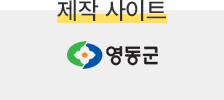
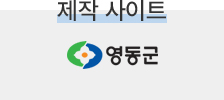
Edit - text, shadow

Changed region(s): [[0.25, 0.12, 0.75, 0.24]]

diff --git a/portfolio.html b/portfolio.html
@@ -85,7 +85,7 @@
                     <li><a href="list/mark-3.html">
                             <span></span>
                             <h4><img src="images/m.png" alt="meta-tony">웹 디자인 이력서</h4>
-                            <p>심플하고 명확한 포트폴리오<br><br></p>
+                            <p>간결하고 명확한 포트폴리오<br><br></p>
                         </a>
                     </li>
                     <li><a href="list/mark-4.html">
@@ -100,7 +100,7 @@
                             <p>심플하고 명확한 포트폴리오<br><br>CSS슬라이드 사용</p>
                         </a>
                     </li>
-                    <li><a href="list/mark-6.html">
+                    <li style="display: none;"><a href="list/mark-6.html">
                             <span></span>
                             <h4><img src="images/fb2.png" alt="meta-tony"></h4>
                             <p>기존 사이트 리뉴얼(미완성)<br><br></p>

diff --git a/css/style.css b/css/style.css
@@ -408,7 +408,7 @@ section h2 {
     z-index: 10;
 }
 .copy h4 {
-    margin-top: 80px;
+    margin-top: 60px;
     font-size: 36px;
     font-weight: 600;
 }
@@ -459,7 +459,7 @@ section h2 {
 #kb .wrap > div {
     background: url(../images/kb-text.jpg)no-repeat center;
     height: 117px;
-    margin-top: 120px;
+    margin-top: 80px;
 }
 
 
@@ -473,7 +473,7 @@ section h2 {
 #yd .wrap > div {
     background: url(../images/yd-text.jpg)no-repeat center;
     height: 117px;
-    margin-top: 120px;
+    margin-top: 80px;
 }
 
 /* design resume */
@@ -632,7 +632,10 @@ section h2 {
     background: url(../images/lt2.jpg)no-repeat center;
     height: 9187px;
 }
-
+#lt h3 img {
+    line-height: 35px;
+    vertical-align: middle;
+}
 /*td*/
 #td ul li:nth-child(1) {
     background-image: url(../images/td-link1.jpg)

diff --git a/list/wd-1.html b/list/wd-1.html
@@ -42,7 +42,7 @@
     <meta name="msapplication-TileImage" content="../images/favacon//ms-icon-144x144.png">
     <meta name="theme-color" content="#ffffff">
 
-    <title>김성훈 | 하이쥬 성형외과</title>
+    <title>김성훈 | 앱 디자인 화상 영어 Hello! Langth</title>
 </head>
 
 <body>
@@ -74,9 +74,9 @@
                 모바일 앱 디자인
             </h2>
             <h3>
-                <i>화상 영어 플랫폼 Hello Langth</i>
+                <i>화상 영어 플랫폼 <img src="../images/lt2.png" alt="Hello! langth"></i>
             </h3>
-            <img src="../images/lt-visual.jpg" alt="">
+            <img src="../images/lt-visual.jpg" alt="원어민 화상 수업 앱 Langth">
             </div>
 
             <figure>

diff --git a/list/ds/css/style.css b/list/ds/css/style.css
@@ -111,12 +111,12 @@ header .detail{
     padding-top: 1vw;
     display:none;
     transition: 2s;
-
+    padding-left:min(240px ,20vw);
+    position: absolute;
+    width: 100%;
+    background: rgba(255, 255, 255, 0.9);
 }
 
-header .detail{
-     margin-left:min(240px ,20vw);
-}
 header .detail > ul > li {
     float: left;
     width:min(128px ,10vw);

diff --git a/list/wd-4.html b/list/wd-4.html
@@ -42,7 +42,8 @@
     <meta name="msapplication-TileImage" content="../images/favacon//ms-icon-144x144.png">
     <meta name="theme-color" content="#ffffff">
 
-    <title>김성훈 | 하이 레저 테마 파크</title>
+    <title>김성훈 | 레저 사이트 디자인 하이 LTP</title>
+
 </head>
 
 <body>

diff --git a/list/mark-4.html b/list/mark-4.html
@@ -42,7 +42,7 @@
     <meta name="msapplication-TileImage" content="../images/favacon//ms-icon-144x144.png">
     <meta name="theme-color" content="#ffffff">
 
-    <title>김성훈 | 영동군청 카드 카피</title>
+    <title>김성훈 | 웹사이트 리뉴얼 대성홀딩스</title>
 </head>
 
 <body>

diff --git a/list/wd-2-1.html b/list/wd-2-1.html
@@ -42,7 +42,7 @@
     <meta name="msapplication-TileImage" content="../images/favacon//ms-icon-144x144.png">
     <meta name="theme-color" content="#ffffff">
 
-    <title>김성훈 | 하이쥬 성형외과</title>
+    <title>김성훈 | 조별과제 목요일 발표 PPT</title>
 </head>
 
 <body>

diff --git a/list/mark-3.html b/list/mark-3.html
@@ -42,7 +42,7 @@
     <meta name="msapplication-TileImage" content="../images/favacon//ms-icon-144x144.png">
     <meta name="theme-color" content="#ffffff">
 
-    <title>김성훈 | 영동군청 카드 카피</title>
+    <title>김성훈 | 디자인 이력서 제작</title>
 </head>
 
 <body>

diff --git a/list/wd-3.html b/list/wd-3.html
@@ -42,7 +42,7 @@
     <meta name="msapplication-TileImage" content="../images/favacon//ms-icon-144x144.png">
     <meta name="theme-color" content="#ffffff">
 
-    <title>김성훈 | 하이 퍼니쳐</title>
+    <title>김성훈 | 쇼핑몰 디자인 하이 퍼니쳐</title>
 </head>
 
 <body>
